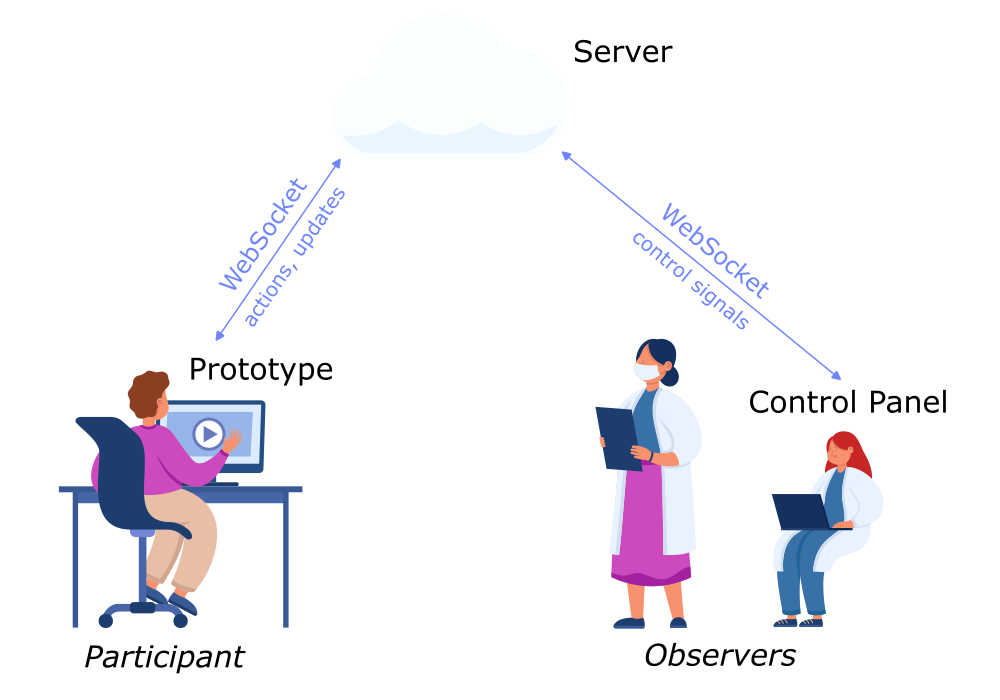
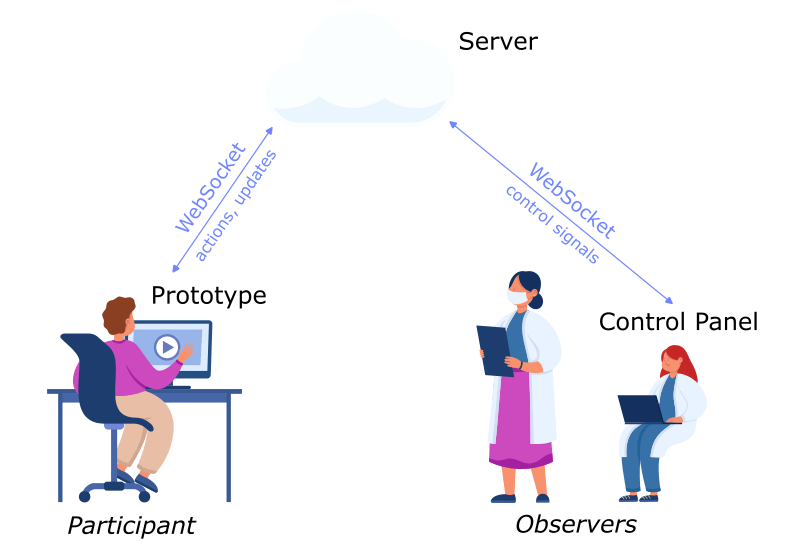
Implement dark mode

diff --git a/content/framework.html b/content/framework.html
@@ -94,6 +94,11 @@ body {
   min-width: 100vw;
   min-height: 100vh;
   background: url(/bin/background.svg), hsl(50deg, 100%, 99%) center;
+  color: #181410;
+}
+body.dark {
+  background: url(/bin/background-dark.svg), hsl(36deg, 80%, 7%) center;
+  color: #fefbfa;
 }
 
 #main-grid {
@@ -238,24 +243,25 @@ nav, main, aside, footer { padding: 1rem; }
 {{ hue, sat, val1, val2 = table.unpack(cat.tint) }}
 a.{{cat.name}} { color: hsl({{hue}}deg, {{sat}}%, {{val1}}%); }
 a.{{cat.name}}::after { background: hsla({{hue}}deg, {{sat}}%, {{val2}}%, 90%); }
+body.dark a.{{cat.name}} { color: hsl({{hue}}deg, {{sat + (100 - sat) * 0.4}}%, {{100 - (100 - val1) * 0.45}}%); }
+body.dark a.{{cat.name}}::after { background: hsla({{hue}}deg, {{sat + (100 - sat) * 0.4}}%, {{100 - (100 - val2) * 0.45}}%, 40%); }
 {{@ end}}
 {{ hue, sat, val1, val2 = 240, 40, 50, 85 }}
 a.external { color: hsl({{hue}}deg, {{sat}}%, {{val1}}%); }
 a.external::after { background: hsla({{hue}}deg, {{sat}}%, {{val2}}%, 90%); }
+body.dark a.external { color: hsl({{hue}}deg, {{sat + (100 - sat) * 0.4}}%, {{100 - (100 - val1) * 0.45}}%); }
+body.dark a.external::after { background: hsla({{hue}}deg, {{sat + (100 - sat) * 0.4}}%, {{100 - (100 - val2) * 0.45}}%, 40%); }
 {{ hue, sat, val1, val2 = 0, 0, 40, 80 }}
 #lang-container > summary { cursor: pointer; }
-.pastel.miscellaneous {
-  color: hsl({{hue}}deg, {{sat}}%, {{val1}}%);
-}
-.pastel.miscellaneous::after {
-  background: hsla({{hue}}deg, {{sat}}%, {{val2}}%, 90%);
-}
+.pastel.miscellaneous { color: hsl({{hue}}deg, 0%, {{val1}}%); }
+.pastel.miscellaneous::after { background: hsla({{hue}}deg, 0%, {{val2}}%, 90%); }
+body.dark .pastel.miscellaneous { color: hsl({{hue}}deg, 0%, {{100 - (100 - val1) * 0.45}}%); }
+body.dark .pastel.miscellaneous::after { background: hsla({{hue}}deg, 0%, {{100 - (100 - val2) * 0.45}}%, 40%); }
 
 {{@ curcat}}
 {{ hue, sat, val1, val2 = table.unpack(cats[curcat].tint) }}
-main header h1 {
-  color: hsl({{hue}}deg, {{sat}}%, {{val1 / 2}}%);
-}
+main header h1 { color: hsl({{hue}}deg, {{sat}}%, {{val1 / 2}}%); }
+body.dark main header h1 { color: hsl({{hue}}deg, {{sat + (100 - sat) * 0.6}}%, {{val1 + (100 - val1) * 0.7}}%); }
 {{@ end}}
 
 footer > span:first-child > *:not(:last-child)::after {
@@ -276,6 +282,7 @@ main {
   z-index: -1;
   filter: hue-rotate({{hue}}deg);
 }
+body.dark #top-fleuron { opacity: 45%; }
 
 @media (max-width: 115vh), (max-width: 48rem) {
   #top-fleuron {
@@ -344,9 +351,6 @@ main {
   src: url(/bin/little-icons.woff2) format('woff2'),
        url(/bin/little-icons.woff) format('woff');
 }
-body {
-  color: #181410;
-}
 :not(pre, code, .tt, .little-icons):lang(en) {
   font-family: 'Livvic', 'AaKaiSong', sans-serif;
 }
@@ -402,6 +406,9 @@ a.date-term-link::after { background: rgb(216, 216, 216); }
 .date-term sup.season-7::after { content: '\2744'; transform: rotate(8deg) scale(0.97); }
 .date-term sup.season-8::after { content: '\1f9ca'; transform: rotate(5deg); }
 
+body.dark a.date-term-link::after { background: rgb(128, 128, 128); }
+body.dark .date-term { color: rgb(180, 180, 180); }
+
 div[role='separator'] {
   block-size: 1.5em;
   margin-block: 1.5em;
@@ -437,6 +444,9 @@ div.item-separator:nth-child(5n+3) { background-position-x: 0em; }
 div.item-separator:nth-child(5n+4) { background-position-x: -8em; }
 div.item-separator:nth-child(5n+5) { background-position-x: 8em; }
 
+body.dark div[role='separator']
+{ opacity: 60%; }
+
 .kaomoji {
   display: inline-block;
   vertical-align: middle;
@@ -445,6 +455,7 @@ div.item-separator:nth-child(5n+5) { background-position-x: 8em; }
   block-size: 1em;
   inline-size: auto;
 }
+body.dark .kaomoji { filter: invert(); }
 
 table.file-table {
   margin-block: 1em;
@@ -483,7 +494,7 @@ section h2 { font-size: 1.14rem; margin-block-end: 1rem; }
 section h3 { font-size: 1.08rem; margin-block-end: 1rem; }
 blockquote {
   margin-block: -0.1em;
-  margin-inline: 1em 2em;
+  margin-inline: 1em;
   padding-block: 0.6em;
   padding-inline: 1em;
   border-inline-start: 0.1em solid hsl({{hue}}deg, {{sat}}%, {{val1}}%);
@@ -492,8 +503,9 @@ blockquote {
 blockquote *:first-child { margin-block-start: 0; }
 blockquote *:last-child { margin-block-end: 0; }
 blockquote + blockquote { margin-block-start: 0.4em; }
-@media (max-width: 115vh), (max-width: 48rem) {
-  blockquote { margin-inline-end: 1em; }
+body.dark blockquote {
+  border-inline-start: 0.1em solid hsl({{hue}}deg, {{sat}}%, {{100 - (100 - val1) * 0.45}}%);
+  background: hsla({{hue}}deg, {{sat}}%, {{100 - (100 - val1) * 0.45}}%, 8%);
 }
 
 span:lang(lat) { font-style: italic; }
@@ -518,6 +530,8 @@ span:lang(lat) { font-style: italic; }
   color: #886;
   display: block;
 }
+
+body.dark img.syncdark { filter: invert(); }
 </style>
 
 <script>

diff --git a/content/bannerlist.html b/content/bannerlist.html
@@ -76,7 +76,10 @@ a.item-entry {
   clear: both;
   margin-block-start: -2em;
 }
-h1.item-title-dark {
+.item-banner h1 {
+  color: #181410;
+}
+.item-banner h1.item-title-dark {
   color: #fdfdfd;
   text-shadow: #181410 0.05em 0.05em;
   border-image: url(/bin/chalk-bg-b.png) 18 fill / 0.3em / 0.1em 0;